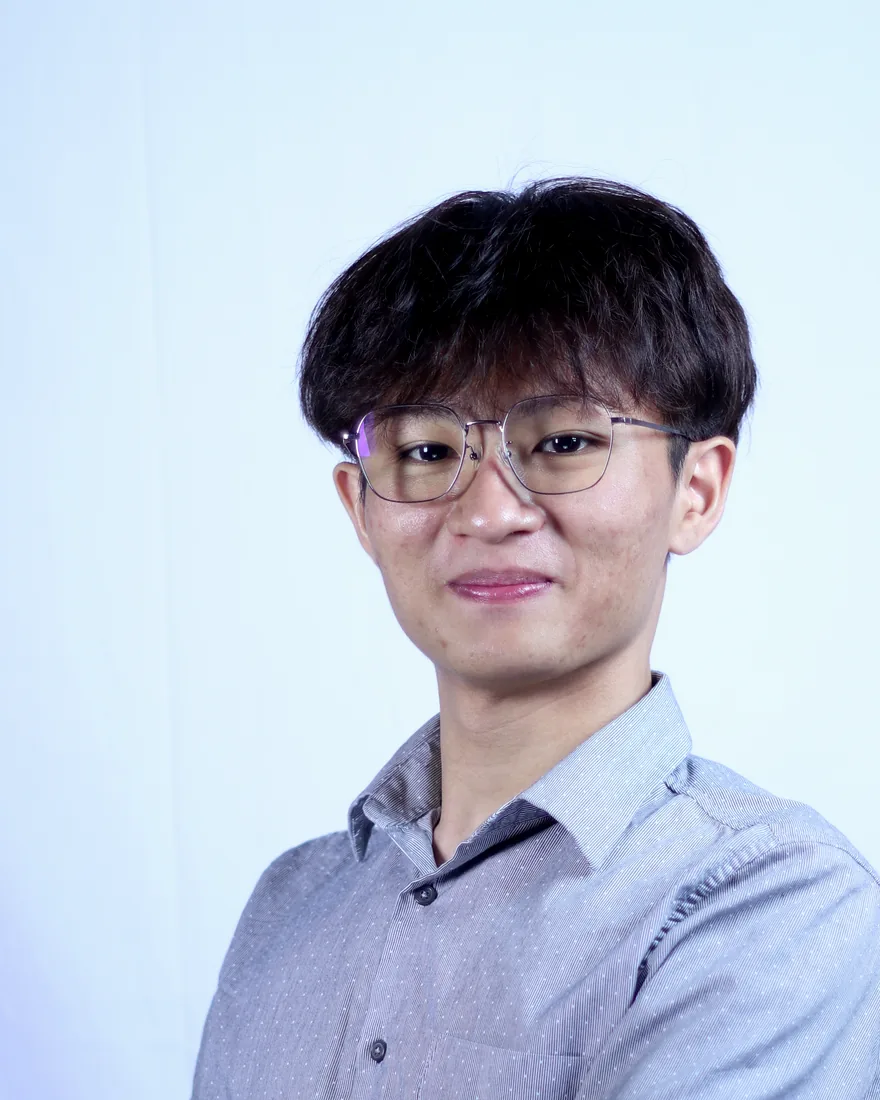
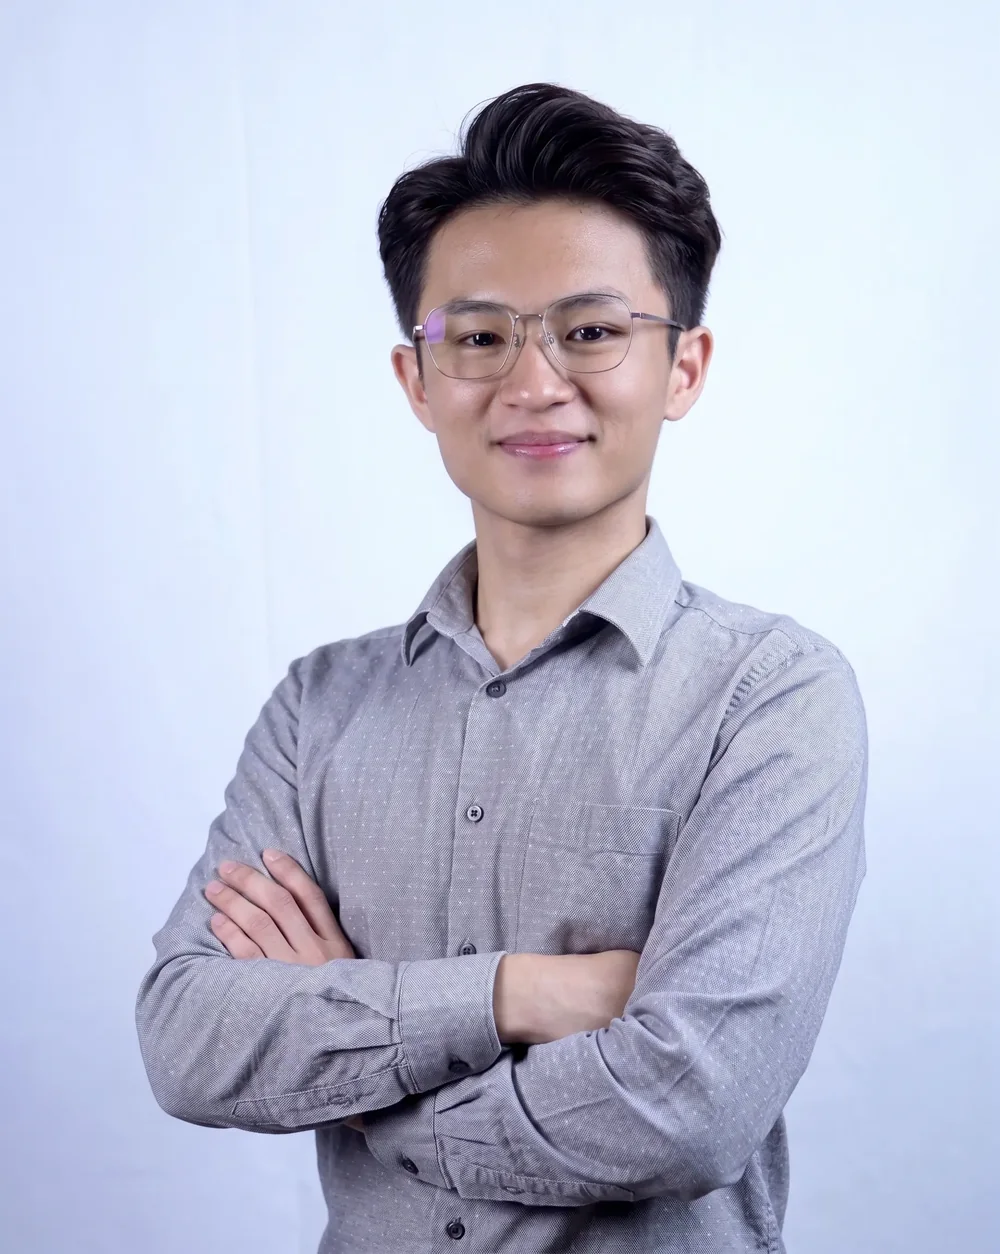
Use the arms-crossed portrait, resized and renamed
The uploaded file was portfolio.webp; the page has been asking for
portrait.webp since the photo was pulled out of the HTML. Two files that
differ by four letters, and the site was quietly still serving the old
picture - nothing errors, the new file simply sits there unreferenced.

It was also 1838x2304 and 356 KB. The portrait slot is
min(42vw, 600px), so more than half those pixels could never reach a
screen, and 356 KB would have undone most of the weight the previous
commit removed. Resized to 1000x1254 at quality 84: 120 KB, still
comfortably above the slot's rendered size on a retina display.

Quality 84 over a smaller image beats quality 66 over a larger one here.
Both land near 120 KB, but the dotted shirt and fabric backdrop are what
cost the bytes, and pushing quality down to hit a size budget shows on
skin before it shows on cloth.

width/height on the <img> and og:image now read 1000x1254. Those numbers
reserve the layout box before the image arrives; leaving them at 880x1100
means the page reflows as it loads.

Aspect is 0.797 against the slot's 4/5, so object-fit: cover crops
essentially nothing.

Claude-Session: https://claude.ai/code/session_01PrLfzvyXAppXutvod7mH39

diff --git a/index.html b/index.html
@@ -13,8 +13,8 @@
 <meta property="og:url" content="https://fangrhui.me/">
 <meta name="twitter:card" content="summary_large_image">
 <meta property="og:image" content="https://fangrhui.me/portrait.webp">
-<meta property="og:image:width" content="880">
-<meta property="og:image:height" content="1100">
+<meta property="og:image:width" content="1000">
+<meta property="og:image:height" content="1254">
 <meta property="og:image:alt" content="Foo Fang Rhui">
 <meta name="twitter:image" content="https://fangrhui.me/portrait.webp">
 <meta name="theme-color" content="#0A0A0C">
@@ -612,7 +612,7 @@ footer p{margin:0;font-family:var(--f-mono);font-size:10.5px;letter-spacing:.16e
     <svg viewBox="0 0 100 100" preserveAspectRatio="none"><line x1="54" y1="0" x2="46" y2="100"></line></svg>
   </div>
   <div class="portrait">
-    <img src="portrait.webp" alt="Foo Fang Rhui" width="880" height="1100" fetchpriority="high" decoding="async">
+    <img src="portrait.webp" alt="Foo Fang Rhui" width="1000" height="1254" fetchpriority="high" decoding="async">
   </div>
   <div class="hero-in">
     <div class="hero-copy">
